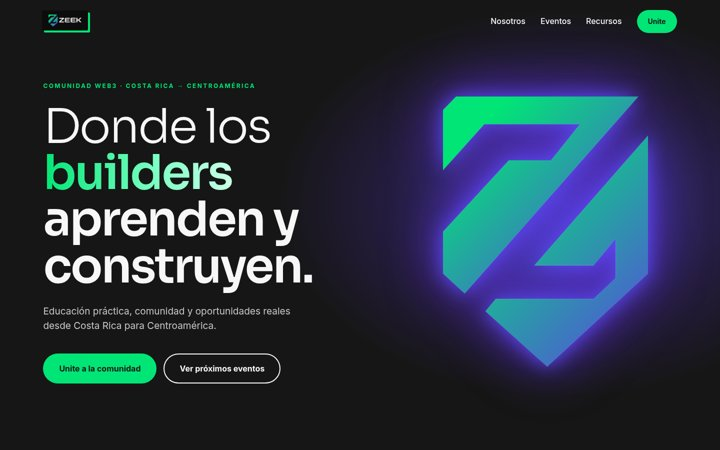
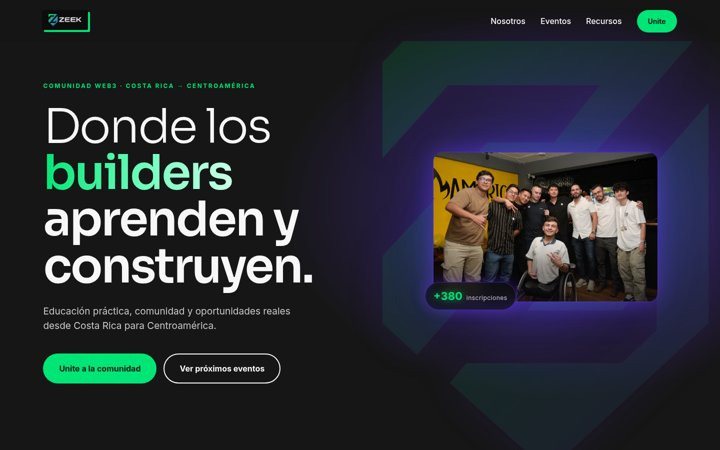
p9: hero K, stats C3, canales, marquee partners, equipo, contacto G, footer rico

Changed region(s): [[0.5194, 0.0933, 0.9167, 0.84], [0.0611, 0.0311, 0.1222, 0.0933], [0.8861, 0.0622, 0.9167, 0.0933]]

diff --git a/p9/index.html b/p9/index.html
@@ -80,6 +80,89 @@ section{padding:72px 6vw}.hero{grid-template-columns:1fr;min-height:auto;padding
 .car{height:600px}#pv{left:0}#nx{right:0}.slide.h{transform:scale(.6);opacity:0;z-index:0;pointer-events:none}.cal{display:inline-block;margin-top:12px;color:var(--g);font-weight:700}.slide.l{transform:translateX(-30%) scale(.8)}.slide.r{transform:translateX(30%) scale(.8)}
 .gal{grid-template-columns:1fr 1fr;grid-template-rows:160px 160px auto}.gal .wide{height:auto;aspect-ratio:2/1}.gal img:first-child{grid-column:span 2;grid-row:auto}footer{grid-template-columns:1fr}.soc span{margin-left:0}h2{font-size:clamp(26px,7.6vw,40px)}.cierre{padding:110px 6vw}}
 .pl{display:grid;grid-template-columns:repeat(3,1fr);gap:20px}.pl a{display:flex;flex-direction:column;align-items:center;justify-content:center;gap:14px;height:200px;border-radius:18px;background:var(--c);border:1px solid #2b2b31;transition:.3s}.pl img{height:110px;max-width:70%;object-fit:contain;border-radius:50%;filter:grayscale(1) brightness(1.5) contrast(1.15);opacity:.9;transition:.3s}.pl span{font-size:13px;opacity:.55}.pl a:hover{border-color:var(--g)}.pl a:hover img{filter:none;opacity:1}.wm{font-family:Sora;font-size:34px;font-weight:600;letter-spacing:.04em;opacity:.75;transition:.3s}.wm i{font-style:normal;font-weight:300}.pl a:hover .wm{opacity:1;color:var(--g)}.also{margin-top:28px;opacity:.65;text-align:center}.also b{font-weight:600;color:var(--w)}@media(max-width:860px){.pl{grid-template-columns:1fr}.pl a{height:150px}}.gal{display:grid;grid-template-columns:repeat(4,1fr);grid-auto-rows:220px;gap:14px}.gal figure{position:relative;overflow:hidden;border-radius:16px;margin:0}.gal figure img{width:100%;height:100%;object-fit:cover;transition:transform .6s ease}.gal figure:hover img{transform:scale(1.06)}.gal .big{grid-column:span 2;grid-row:span 2}.gal .wide{grid-column:span 2}.gal figcaption{position:absolute;left:0;right:0;bottom:0;padding:28px 16px 12px;font-size:13px;font-weight:600;background:linear-gradient(transparent,rgba(0,0,0,.75));opacity:.9;transition:opacity .3s}.gal figure:hover figcaption{opacity:1}@media(max-width:860px){.gal{grid-template-columns:1fr 1fr;grid-auto-rows:150px}.gal .wide{grid-row:span 1;height:auto}}html,body{forced-color-adjust:none;-webkit-forced-color-adjust:none}
+.iso.hp{display:block;width:100%}
+.hp-frame{position:relative;border-radius:18px;overflow:hidden;border:1px solid rgba(99,53,237,.55);box-shadow:0 0 0 1px rgba(91,75,242,.15),0 0 40px rgba(99,53,237,.45),0 0 90px rgba(79,91,255,.2)}
+.hp-frame::after{content:"";position:absolute;inset:0;background:linear-gradient(180deg,transparent 55%,rgba(10,10,14,.55))}
+.iso.hp .hp-frame img{width:100%;aspect-ratio:4/3;object-fit:cover;display:block;filter:none;animation:none}
+.hp-badge{position:absolute;left:-22px;bottom:-22px;display:flex;align-items:baseline;gap:10px;padding:14px 22px;border-radius:999px;background:rgba(14,14,20,.62);backdrop-filter:blur(14px);-webkit-backdrop-filter:blur(14px);border:1px solid rgba(99,53,237,.5);box-shadow:0 0 28px rgba(99,53,237,.45)}
+.hp-badge b{font-size:30px;font-weight:600;color:#01E576;text-shadow:0 0 14px rgba(1,229,118,.7)}
+.hp-badge span{font-size:13px;color:#cfcfd8;letter-spacing:.04em}
+@media(max-width:800px){.iso.hp{max-width:none;margin:30px 6px 30px}.hp-badge{left:-6px;bottom:-18px;padding:10px 16px}.hp-badge b{font-size:24px}}
+.iso.hp{max-width:540px;justify-self:center;position:relative}
+.iso.hp .hp-frame{z-index:1}.hp-badge{z-index:2}
+.iso.hp .hp-frame img{aspect-ratio:3/2}
+.iso.hp img.bigz{position:absolute;left:50%;top:50%;height:820px;width:auto;transform:translate(-50%,-50%);opacity:.08!important;filter:drop-shadow(0 0 40px rgba(99,53,237,.9));animation:none;z-index:0;pointer-events:none}
+.hero{overflow:hidden}
+@media(max-width:800px){.iso.hp{max-width:none}.iso.hp img.bigz{height:408px;width:auto;max-width:none;opacity:.08!important;transform:translate(-50%,-50%)}.iso.hp{margin:56px 6px 40px}}
+.hero{align-items:center}.iso.hp{align-self:center;margin-bottom:22px}
+@media(min-width:801px){.iso.hp{max-width:400px;width:400px}.iso.hp img.bigz{height:672px;width:auto;max-width:none;opacity:.115!important}
+.hp-badge{left:-16px;bottom:-16px;padding:10px 16px;gap:8px}.hp-badge b{font-size:22px}.hp-badge span{font-size:12px}}
+.iso.hp .hp-frame img{aspect-ratio:auto;object-fit:contain;height:auto}
+@media(min-width:801px){.iso.hp{max-width:450px;width:450px}.iso.hp img.bigz{height:860px!important;width:auto;max-width:none;opacity:.12!important}}
+@media(max-width:800px){.iso.hp img.bigz{height:500px!important;width:auto;max-width:none;opacity:.09!important}.iso.hp{margin:150px 10px 140px}}
+@media(min-width:801px){.iso.hp img.bigz{transform:translate(-50%,calc(-50% + 58px))}}
+@media(max-width:800px){.iso.hp img.bigz{transform:translate(-50%,calc(-50% + 34px))}}
+
+/* ---- stats C3 ---- */
+@font-face{font-family:SoraM;src:url(assets/sora600-digits.woff2) format("woff2");font-weight:600}
+.stats .st{background:#0f0f12;border:1px solid #26262e;border-radius:16px;padding:30px 26px;transition:border-color 1s,box-shadow 1s}
+.stats .st b{position:relative;font-family:SoraM,Sora,sans-serif;width:max-content}
+.stats .st b .o{color:transparent;-webkit-text-stroke:1.2px var(--w)}.stats .st b .o sup{color:transparent}
+.stats .st b .fi{position:absolute;left:0;top:0;color:var(--w);clip-path:inset(100% 0 0 0);transition:clip-path 1s cubic-bezier(.5,0,.3,1)}
+.stats .st.on b .fi{clip-path:inset(0 0 0 0)}
+.stats .st.lit b .fi{clip-path:none;text-shadow:0 0 10px rgba(1,229,118,.55),0 0 28px rgba(1,229,118,.3),0 0 54px rgba(99,53,237,.6);animation:zpl 2.6s ease-in-out infinite}
+@keyframes zpl{50%{text-shadow:0 0 4px rgba(1,229,118,.3),0 0 16px rgba(1,229,118,.2),0 0 30px rgba(99,53,237,.35)}}
+.stats .st.lit{border-color:#3b3550;box-shadow:0 0 30px rgba(99,53,237,.18)}
+.stats .bar{display:block;height:4px;background:#24242c;border-radius:4px;margin-top:20px;overflow:hidden}.stats .bar i{display:block;height:100%;width:0;background:linear-gradient(90deg,var(--v),var(--g));box-shadow:0 0 12px var(--g);transition:width 1.6s cubic-bezier(.3,.8,.3,1)}
+/* ---- team ---- */
+.team{display:grid;grid-template-columns:repeat(4,1fr);gap:22px}.fl3{perspective:1000px;height:300px}.fi3{position:relative;height:100%;transition:transform .7s;transform-style:preserve-3d}.fl3:hover .fi3{transform:rotateY(180deg)}
+.fa3,.fb3{position:absolute;inset:0;border-radius:20px;backface-visibility:hidden;-webkit-backface-visibility:hidden;padding:26px;display:flex;flex-direction:column;align-items:center;justify-content:center;text-align:center;background:#0f0f12;border:1px solid #2b2b31}
+.av3{width:120px;height:120px;border-radius:50%;border:2px solid var(--g);box-shadow:0 0 22px rgba(1,229,118,.45),inset 0 0 22px rgba(99,53,237,.5);display:grid;place-items:center;margin-bottom:18px;background:repeating-linear-gradient(45deg,#1a1a20 0 8px,#202028 8px 16px);font-size:11px;color:#777}
+.fa3 h4{font-weight:600;font-size:18px}.fa3 p{color:var(--g);font-size:12px;letter-spacing:.12em;margin-top:4px}.ph3{font-size:10px;color:#ff8f8f;margin-top:10px;letter-spacing:.1em}
+.fb3{transform:rotateY(180deg);background:linear-gradient(160deg,rgba(99,53,237,.35),rgba(1,229,118,.12)),#0f0f12;border-color:var(--v)}.fb3 p{font-size:13px;opacity:.85;line-height:1.6}
+/* ---- partners marquee ---- */
+.mq{overflow:hidden;-webkit-mask-image:linear-gradient(90deg,transparent,#000 12%,#000 88%,transparent);mask-image:linear-gradient(90deg,transparent,#000 12%,#000 88%,transparent);margin-bottom:16px}
+.mq .tr{display:flex;gap:16px;width:max-content;animation:zmv 30s linear infinite}.mq.rev .tr{animation-direction:reverse}.mq:hover .tr{animation-play-state:paused}@keyframes zmv{to{transform:translateX(-50%)}}
+.pt{height:84px;min-width:220px;padding:0 26px;border-radius:16px;background:#0f0f12;border:1px solid #2a2a32;display:flex;align-items:center;gap:12px;font-weight:600;font-size:18px;color:#8d8d98;filter:grayscale(1);transition:.3s;text-decoration:none}
+.pt img{height:44px;border-radius:8px}.pt:hover{filter:none;color:var(--w);border-color:var(--v);box-shadow:0 0 26px rgba(99,53,237,.5)}.pt small{font-weight:300;font-size:11px;color:var(--g);letter-spacing:.12em;display:block}
+.pt .wm2{font-weight:600;letter-spacing:.02em;color:#ddd}.pt .wm2 i{font-style:normal;color:var(--g)}
+/* ---- canales bento ---- */
+.bento{display:grid;grid-template-columns:2fr 1fr 1fr;grid-template-rows:180px 180px;gap:16px}
+.bx{border-radius:18px;background:#0f0f12;border:1px solid #2a2a32;padding:24px;display:flex;flex-direction:column;justify-content:space-between;transition:.3s;text-decoration:none;color:inherit}
+.bx:hover{border-color:var(--g);box-shadow:0 0 30px rgba(1,229,118,.18)}
+.bx.big{grid-row:span 2;background:radial-gradient(circle at 80% 20%,rgba(1,229,118,.22),transparent 55%),#0f0f12}
+.bx h3{font-weight:600;font-size:22px}.bx p{opacity:.7;font-size:13px}.bx .h{font-family:ui-monospace,monospace;font-size:12px;opacity:.6}
+.live{display:inline-flex;align-items:center;gap:8px;font-size:12px;color:var(--g)}.live::before{content:"";width:8px;height:8px;border-radius:50%;background:var(--g);box-shadow:0 0 10px var(--g);animation:zbl 1.6s infinite}@keyframes zbl{50%{opacity:.25}}
+.term{font-family:ui-monospace,monospace;font-size:13px;line-height:1.9;color:#cfd}.term b{color:var(--g);font-weight:500}.go{font-weight:600;font-size:13px;color:var(--g)}
+.bx.v{background:radial-gradient(circle at 20% 100%,rgba(99,53,237,.4),transparent 60%),#0f0f12}
+/* ---- contacto G ---- */
+#contacto .sp{display:grid;grid-template-columns:1fr 1.1fr;gap:70px;align-items:center}
+.zl img{height:40px;margin-bottom:22px;display:block}.zl p{opacity:.7;max-width:340px;margin-bottom:34px}
+.eb3{font-weight:600;font-size:12px;letter-spacing:.2em;color:var(--g);margin-bottom:12px}
+.stmt{font-weight:600;font-size:clamp(40px,4.6vw,68px);line-height:1;letter-spacing:-.035em}.stmt .gr{color:var(--g)}
+.sub3{opacity:.7;font-size:15px;margin-top:24px;max-width:460px;line-height:1.6}
+.lk{display:flex;flex-direction:column;gap:10px;margin-top:22px}.lk a{color:#cfcfd8;font-size:14px;text-decoration:none;width:max-content;border-bottom:1px solid transparent}.lk a:hover{color:var(--g);border-color:var(--g)}.lk small{opacity:.5;font-size:11px;letter-spacing:.15em}
+.ge{position:relative}.ge::before{content:"";position:absolute;inset:-30px;background:linear-gradient(130deg,rgba(1,229,118,.45),rgba(99,53,237,.6));filter:blur(60px);opacity:.55;border-radius:40px;z-index:0;pointer-events:none}
+.ge form{position:relative;z-index:1;border-radius:20px;padding:32px;display:grid;gap:14px;background:rgba(18,18,24,.55);backdrop-filter:blur(18px);-webkit-backdrop-filter:blur(18px);border:1px solid rgba(255,255,255,.1)}
+.ge h3{font-weight:600;font-size:20px;margin-bottom:4px}
+.ge input,.ge textarea{width:100%;background:rgba(8,9,9,.6);border:1px solid rgba(1,229,118,.45);border-radius:14px;padding:24px 18px 10px;color:var(--w);font:300 15px Sora,sans-serif;outline:none;transition:.25s;resize:vertical}
+.ge input:focus,.ge textarea:focus{border-color:var(--g);box-shadow:0 0 0 3px rgba(1,229,118,.12)}
+.flb{position:relative}.flb label{position:absolute;left:18px;top:17px;color:rgba(1,229,118,.65);font-size:15px;transition:.2s;pointer-events:none}
+.flb input:focus+label,.flb input:not(:placeholder-shown)+label,.flb textarea:focus+label,.flb textarea:not(:placeholder-shown)+label{top:7px;font-size:11px;letter-spacing:.08em;color:var(--g)}
+.ge .send2{justify-self:start;background:none;border:1px solid var(--g);color:var(--g);border-radius:14px;padding:14px 28px;font:600 14px Sora,sans-serif;cursor:pointer;transition:.25s}.ge .send2:hover{background:rgba(1,229,118,.1);box-shadow:0 0 22px rgba(1,229,118,.25)}
+/* ---- footer rico ---- */
+footer.fr{background:#0c0c0e;padding:80px 6vw 30px;position:relative;overflow:hidden;display:block}
+footer.fr .wmz{position:absolute;right:-60px;bottom:-120px;height:460px;opacity:.05;pointer-events:none}
+.fg{display:grid;grid-template-columns:1.4fr 1fr 1fr 1fr;gap:40px;position:relative}.fg h5{font-weight:600;font-size:13px;letter-spacing:.15em;color:var(--g);margin-bottom:16px}.fg ul{list-style:none;padding:0;margin:0}.fg li{opacity:.75;font-size:14px;margin-bottom:10px}.fg li a{color:inherit;text-decoration:none}.fg li a:hover{color:var(--g)}
+.fg .br img{height:32px;margin-bottom:16px}.fg .br p{opacity:.6;font-size:13px;line-height:1.6;max-width:280px}
+.chipz{display:inline-flex;gap:8px;align-items:center;margin-top:18px;font-family:ui-monospace,monospace;font-size:12px;color:var(--g);border:1px solid #1d3a2b;border-radius:8px;padding:8px 12px;text-decoration:none}
+.bigz2{font-weight:600;font-size:15vw;letter-spacing:-.04em;line-height:.8;margin-top:40px;background:linear-gradient(180deg,rgba(247,247,247,.08),transparent);-webkit-background-clip:text;background-clip:text;color:transparent;text-align:center;position:relative}
+.fbt{display:flex;justify-content:space-between;gap:20px;margin-top:30px;padding-top:20px;border-top:1px solid #222;opacity:.6;font-size:12px;position:relative}
+@media(max-width:800px){.team{grid-template-columns:1fr 1fr;gap:14px}.fl3{height:260px}.av3{width:90px;height:90px}
+.bento{grid-template-columns:1fr 1fr;grid-template-rows:auto}.bx.big{grid-column:1/-1;grid-row:auto;min-height:260px}.bx{min-height:150px}
+#contacto .sp{grid-template-columns:1fr;gap:50px}.fg{grid-template-columns:1fr 1fr}.fg .br{grid-column:1/-1}.fbt{flex-direction:column}.pt{min-width:180px;height:72px;font-size:16px}}
+html,body{overflow-x:clip}
+.stats .st b span{display:inline-block;font-size:inherit;margin:0;opacity:1;max-width:none;white-space:nowrap}.stats .st b .fi{position:absolute}footer.fr .wmz{opacity:.05!important;transform:none!important}
 </style></head><body>
 <header class="nav" id="nav"><a class="logo" href="#top"><span><img src="assets/zeek-logo.png" alt="ZEEK"></span></a>
 <input type="checkbox" id="m"><label for="m" class="burger">☰</label>
@@ -89,9 +172,9 @@ section{padding:72px 6vw}.hero{grid-template-columns:1fr;min-height:auto;padding
 <h1><span class="thin">Donde los</span> <span class="heavy grad">builders</span> <span class="heavy">aprenden y construyen.</span></h1>
 <p class="lead">Educación práctica, comunidad y oportunidades reales desde Costa Rica para Centroamérica.</p>
 <div class="ctas"><a class="btn pri" href="https://chat.whatsapp.com/IwohPWSez627OG74k8jRvA">Unite a la comunidad</a><a class="btn sec" href="#eventos">Ver próximos eventos</a></div></div>
-<div class="iso"><img src="assets/zeek-iso.png" alt="Isotipo ZEEK"></div></section>
+<div class="iso hp"><img class="bigz" src="assets/zeek-iso.png" alt=""><div class="hp-frame"><img src="assets/hero-group.jpg" alt="Comunidad ZEEK en un meetup"></div><div class="hp-badge"><b>+380</b><span>inscripciones</span></div></div></section>
 <section class="mani"><p class="d"><span class="thin">Aprender solo</span><br><span class="heavy">te mueve.</span><br><span class="thin">Construir juntos</span><br><span class="heavy grad">te transforma.</span></p><small>Somos la comunidad donde las ideas Web3 pasan de la teoría a proyectos reales.</small></section>
-<section class="stats"><div><b>14</b><span>eventos realizados</span></div><div><b>380<sup>+</sup></b><span>inscripciones a eventos</span></div><div><b>3</b><span>países: Costa Rica, Colombia y Portugal</span></div><div><b>3</b><span>partners del ecosistema</span></div></section>
+<section class="stats"><div class="st"><b><span class="o">14</span><span class="fi">14</span></b><span>eventos realizados</span><i class="bar"><i data-p="70"></i></i></div><div class="st"><b><span class="o">380<sup>+</sup></span><span class="fi">380<sup>+</sup></span></b><span>inscripciones a eventos</span><i class="bar"><i data-p="95"></i></i></div><div class="st"><b><span class="o">3</span><span class="fi">3</span></b><span>países: Costa Rica, Colombia y Portugal</span><i class="bar"><i data-p="50"></i></i></div><div class="st"><b><span class="o">3</span><span class="fi">3</span></b><span>partners del ecosistema</span><i class="bar"><i data-p="50"></i></i></div></section>
 <section id="nosotros"><div class="hd"><h2><span class="thin">Creciendo en</span><br><span class="heavy">comunidad</span></h2><p>ZEEK es un espacio donde aprender, construir y conectar sucede en conjunto, desde el primer día.</p></div>
 <div class="cards"><article class="card"><i>01</i><h3>Aprendé</h3><p>Talleres, charlas y recursos para entender Web3 desde la práctica.</p><a href="#recursos">Ir a Recursos →</a></article>
 <article class="card"><i>02</i><h3>Construí</h3><p>Espacios para crear proyectos, experimentar y colaborar con otros builders.</p><a href="#eventos">Ir a Eventos →</a></article>
@@ -103,13 +186,23 @@ section{padding:72px 6vw}.hero{grid-template-columns:1fr;min-height:auto;padding
 <div class="rec"><article><b>01</b><h3>Talleres prácticos</h3><p>Sesiones para aprender haciendo, desde lo básico hasta lo aplicado.</p></article><article><b>02</b><h3>Material educativo</h3><p>Guías, recursos y contenido curado para explorar Web3 a tu ritmo.</p></article><article><b>03</b><h3>Networking y comunidad</h3><p>Espacios para conectar con personas, ideas y proyectos.</p></article><article><b>04</b><h3>Oportunidades</h3><p>Difusión de programas, convocatorias y espacios para participar.</p></article></div></section>
 <section><div class="hd"><h2><span class="thin">Así se vive</span><br><span class="heavy">ZEEK</span></h2></div><div class="gal"><figure class="big"><img src="assets/g-aleph-grupo.jpg" alt="Aleph Hackathon II" loading="lazy"><figcaption>Aleph Hackathon II</figcaption></figure><figure class=""><img src="assets/g-dev3pack.jpg" alt="Dev3Pack x Solana" loading="lazy"><figcaption>Dev3Pack x Solana</figcaption></figure><figure class=""><img src="assets/g-aleph-build.jpg" alt="Aleph Hackathon" loading="lazy"><figcaption>Aleph Hackathon</figcaption></figure><figure class=""><img src="assets/g-cursor.jpg" alt="Cursor Meetup San José" loading="lazy"><figcaption>Cursor Meetup San José</figcaption></figure><figure class=""><img src="assets/g-tico.jpg" alt="TicoBlockchain" loading="lazy"><figcaption>TicoBlockchain</figcaption></figure><figure class="wide"><img src="assets/gal-una-wide.jpg" alt="Meet Up UNA · 9 de mayo" loading="lazy"></figure><figure class=""><img src="assets/g-sesiones.jpg" alt="Encuentros ZEEK" loading="lazy"><figcaption>Encuentros ZEEK</figcaption></figure><figure class=""><img src="assets/g-meetup.jpg" alt="Meetup ZEEK" loading="lazy"><figcaption>Meetup ZEEK</figcaption></figure></div></section>
 <section><div class="hd"><h2><span class="thin">Lo que dice la</span><br><span class="heavy">comunidad</span></h2></div><div class="tq"><blockquote>“[Testimonio real de un builder]”<cite>[Nombre] · [rol]</cite></blockquote><blockquote>“[Testimonio real de un builder]”<cite>[Nombre] · [rol]</cite></blockquote><blockquote>“[Testimonio real de un aliado]”<cite>[Nombre] · [organización]</cite></blockquote></div></section>
+<section id="equipo"><div class="hd"><h2><span class="thin">Las personas</span><br><span class="heavy">detrás de ZEEK</span></h2><p>Pasá el mouse sobre cada tarjeta. <b style="color:#ff8f8f">Nombres y fotos son placeholders.</b></p></div><div class="team"><div class="fl3"><div class="fi3"><div class="fa3"><div class="av3">FOTO</div><h4>Nombre 1</h4><p>ROL</p><div class="ph3">PLACEHOLDER</div></div><div class="fb3"><p>Bio corta: qué hace en ZEEK y en qué construye. (placeholder)</p></div></div></div><div class="fl3"><div class="fi3"><div class="fa3"><div class="av3">FOTO</div><h4>Nombre 2</h4><p>ROL</p><div class="ph3">PLACEHOLDER</div></div><div class="fb3"><p>Bio corta: qué hace en ZEEK y en qué construye. (placeholder)</p></div></div></div><div class="fl3"><div class="fi3"><div class="fa3"><div class="av3">FOTO</div><h4>Nombre 3</h4><p>ROL</p><div class="ph3">PLACEHOLDER</div></div><div class="fb3"><p>Bio corta: qué hace en ZEEK y en qué construye. (placeholder)</p></div></div></div><div class="fl3"><div class="fi3"><div class="fa3"><div class="av3">FOTO</div><h4>Nombre 4</h4><p>ROL</p><div class="ph3">PLACEHOLDER</div></div><div class="fb3"><p>Bio corta: qué hace en ZEEK y en qué construye. (placeholder)</p></div></div></div></div></section>
 <section class="partners"><div class="hd"><h2><span class="thin">Nuestros</span><br><span class="heavy">partners</span></h2><p>Organizaciones que construyen con nosotros.</p></div>
-<div class="pl"><a href="https://linktr.ee/StellarLATAM" target="_blank" rel="noopener"><img src="assets/p-stellar.jpg" alt="Starmaker – Stellar"><span>Starmaker · Stellar</span></a><a href="https://www.techrebel.world" target="_blank" rel="noopener"><b class="wm">TECH<i>REBEL</i></b><span>Tech Rebel</span></a><a href="https://x.com/crecimientoar" target="_blank" rel="noopener"><img src="assets/p-crecimiento.jpg" alt="Crecimiento"><span>Crecimiento</span></a></div>
-<p class="also">Junto a <b>Morpho</b> · <b>Ticoblockchain</b> · <b>Aleph</b> · <b>TEC</b> · <b>Fidélitas</b></p></section>
+<div class="mq"><div class="tr"><a class="pt" href="https://linktr.ee/StellarLATAM" target="_blank" rel="noopener"><img src="assets/p-stellar.jpg" alt="Starmaker – Stellar"><div>Starmaker · Stellar<small>PARTNER</small></div></a><a class="pt" href="https://www.techrebel.world" target="_blank" rel="noopener"><span class="wm2">TECH<i>REBEL</i></span><div><small>PARTNER</small></div></a><a class="pt" href="https://x.com/crecimientoar" target="_blank" rel="noopener"><img src="assets/p-crecimiento.jpg" alt="Crecimiento"><div>Crecimiento<small>PARTNER</small></div></a><a class="pt" href="https://linktr.ee/StellarLATAM" target="_blank" rel="noopener"><img src="assets/p-stellar.jpg" alt="Starmaker – Stellar"><div>Starmaker · Stellar<small>PARTNER</small></div></a><a class="pt" href="https://www.techrebel.world" target="_blank" rel="noopener"><span class="wm2">TECH<i>REBEL</i></span><div><small>PARTNER</small></div></a><a class="pt" href="https://x.com/crecimientoar" target="_blank" rel="noopener"><img src="assets/p-crecimiento.jpg" alt="Crecimiento"><div>Crecimiento<small>PARTNER</small></div></a><a class="pt" href="https://linktr.ee/StellarLATAM" target="_blank" rel="noopener"><img src="assets/p-stellar.jpg" alt="Starmaker – Stellar"><div>Starmaker · Stellar<small>PARTNER</small></div></a><a class="pt" href="https://www.techrebel.world" target="_blank" rel="noopener"><span class="wm2">TECH<i>REBEL</i></span><div><small>PARTNER</small></div></a><a class="pt" href="https://x.com/crecimientoar" target="_blank" rel="noopener"><img src="assets/p-crecimiento.jpg" alt="Crecimiento"><div>Crecimiento<small>PARTNER</small></div></a><a class="pt" href="https://linktr.ee/StellarLATAM" target="_blank" rel="noopener"><img src="assets/p-stellar.jpg" alt="Starmaker – Stellar"><div>Starmaker · Stellar<small>PARTNER</small></div></a><a class="pt" href="https://www.techrebel.world" target="_blank" rel="noopener"><span class="wm2">TECH<i>REBEL</i></span><div><small>PARTNER</small></div></a><a class="pt" href="https://x.com/crecimientoar" target="_blank" rel="noopener"><img src="assets/p-crecimiento.jpg" alt="Crecimiento"><div>Crecimiento<small>PARTNER</small></div></a></div></div><div class="mq rev"><div class="tr"><div class="pt">Morpho<small style="margin-left:6px">ALIADO</small></div><div class="pt">Ticoblockchain<small style="margin-left:6px">ALIADO</small></div><div class="pt">Aleph<small style="margin-left:6px">ALIADO</small></div><div class="pt">TEC<small style="margin-left:6px">ALIADO</small></div><div class="pt">Fidélitas<small style="margin-left:6px">ALIADO</small></div><div class="pt">Morpho<small style="margin-left:6px">ALIADO</small></div><div class="pt">Ticoblockchain<small style="margin-left:6px">ALIADO</small></div><div class="pt">Aleph<small style="margin-left:6px">ALIADO</small></div><div class="pt">TEC<small style="margin-left:6px">ALIADO</small></div><div class="pt">Fidélitas<small style="margin-left:6px">ALIADO</small></div><div class="pt">Morpho<small style="margin-left:6px">ALIADO</small></div><div class="pt">Ticoblockchain<small style="margin-left:6px">ALIADO</small></div><div class="pt">Aleph<small style="margin-left:6px">ALIADO</small></div><div class="pt">TEC<small style="margin-left:6px">ALIADO</small></div><div class="pt">Fidélitas<small style="margin-left:6px">ALIADO</small></div></div></div></section>
+<section id="comunidad"><div class="hd"><h2><span class="thin">Un mapa de</span><br><span class="heavy">nuestros canales</span></h2></div><div class="bento">
+<a class="bx big" href="https://chat.whatsapp.com/IwohPWSez627OG74k8jRvA" target="_blank" rel="noopener"><div><span class="live">activo ahora</span><h3 style="font-size:34px;margin-top:16px">WhatsApp</h3><p style="font-size:15px;margin-top:8px;max-width:380px">El canal principal: avisos de eventos, dudas técnicas y oportunidades.</p></div><div class="term"><b>$</b> zeek join --canal whatsapp<br><b>✓</b> comunidad CR + CA</div><span class="go">Entrar al grupo →</span></a>
+<a class="bx v" href="https://luma.com/ZEEK-" target="_blank" rel="noopener"><div><p class="h">luma.com/ZEEK-</p><h3>Calendario</h3></div><p>Todos los eventos e inscripciones</p></a>
+<a class="bx" href="https://www.instagram.com/zeek_cr/" target="_blank" rel="noopener"><div><p class="h">@zeek_cr</p><h3>Instagram</h3></div><p>Fotos, recaps y anuncios</p></a>
+<a class="bx" href="https://x.com/ZEEK_CR" target="_blank" rel="noopener"><div><p class="h">@ZEEK_CR</p><h3>X</h3></div><p>Noticias y anuncios</p></a>
+<a class="bx" href="https://linktr.ee/zeek.info" target="_blank" rel="noopener"><div><p class="h">linktr.ee/zeek.info</p><h3>Todos los links</h3></div><p>Recursos, formularios y más</p></a></div></section>
 <section class="cierre"><h2><span class="thin">¿Listo para construir</span> <span class="heavy">con nosotros?</span></h2><p>Sumate al grupo de WhatsApp y enterate primero de eventos, talleres y oportunidades.</p><a class="btn pri" href="https://chat.whatsapp.com/IwohPWSez627OG74k8jRvA">Unite a la comunidad</a></section>
-<footer id="contacto"><div class="fc"><img src="assets/zeek-logo.png" alt="ZEEK"><p>Comunidad Web3 enfocada en aprender haciendo y construir en conjunto.</p></div>
-<form onsubmit="return false"><h3>Contactanos</h3><p>Para colaboraciones, talleres, alianzas o patrocinio.</p><input placeholder="Nombre"><input type="email" placeholder="Email"><textarea placeholder="..."></textarea><button class="send">Enviar</button></form>
-<div class="soc"><a href="https://www.instagram.com/zeek_cr/">Instagram</a><a href="https://x.com/ZEEK_CR">X</a><a href="https://chat.whatsapp.com/IwohPWSez627OG74k8jRvA" target="_blank" rel="noopener">WhatsApp</a><span>© 2026 ZEEK — Built in Costa Rica</span></div></footer>
+<section id="contacto"><div class="sp"><div><div class="zl"><img src="assets/zeek-logo.png" alt="ZEEK"><p>Comunidad Web3 enfocada en aprender haciendo y construir en conjunto.</p></div><div class="eb3">CONTACTO</div><div class="stmt">¿Tenés una idea?<br><span class="gr">Contáctanos.</span></div><p class="sub3">Si querés colaborar con ZEEK, dar una charla o sumar a tu organización, dejanos un mensaje.</p><div class="lk"><small>TAMBIÉN EN</small><a href="https://chat.whatsapp.com/IwohPWSez627OG74k8jRvA" target="_blank" rel="noopener">WhatsApp de la comunidad</a><a href="https://luma.com/ZEEK-" target="_blank" rel="noopener">Calendario en Luma</a><a href="https://linktr.ee/zeek.info" target="_blank" rel="noopener">Todos nuestros links</a></div></div>
+<div class="ge"><form onsubmit="return false"><h3>Escribinos</h3><div class="flb"><input type="text" placeholder=" " id="cNombre"><label for="cNombre">Nombre</label></div><div class="flb"><input type="email" placeholder=" " id="cEmail"><label for="cEmail">Email</label></div><div class="flb"><input type="text" placeholder=" " id="cOrganización (opcional)"><label for="cOrganización (opcional)">Organización (opcional)</label></div><div class="flb"><textarea rows="5" placeholder=" " id="cMensaje"></textarea><label for="cMensaje">Mensaje</label></div><button class="send2">Enviar</button></form></div></div></section>
+<footer class="fr"><img class="wmz" src="assets/zeek-iso.png" alt=""><div class="fg"><div class="br"><img src="assets/zeek-logo.png" alt="ZEEK"><p>Desde Costa Rica para Centroamérica.</p><a class="chipz" href="https://luma.com/ZEEK-" target="_blank" rel="noopener">● próximos eventos → luma.com/ZEEK-</a></div>
+<div><h5>COMUNIDAD</h5><ul><li><a href="https://chat.whatsapp.com/IwohPWSez627OG74k8jRvA" target="_blank" rel="noopener">WhatsApp</a></li><li><a href="https://www.instagram.com/zeek_cr/" target="_blank" rel="noopener">Instagram</a></li><li><a href="https://x.com/ZEEK_CR" target="_blank" rel="noopener">X</a></li><li><a href="https://linktr.ee/zeek.info" target="_blank" rel="noopener">Linktree</a></li></ul></div>
+<div><h5>RECURSOS</h5><ul><li><a href="https://luma.com/ZEEK-" target="_blank" rel="noopener">Calendario de eventos</a></li><li><a href="#recursos">Guías y talleres</a></li><li><a href="#">Media kit</a></li><li><a href="#contacto">Ser partner</a></li></ul></div>
+<div><h5>LEGAL</h5><ul><li><a href="#">Código de conducta</a></li><li><a href="#">Privacidad</a></li><li><a href="#contacto">Contacto</a></li></ul></div></div>
+<div class="bigz2">ZEEK</div><div class="fbt"><span>© 2026 ZEEK — Built in Costa Rica</span><span>hecho por builders, para builders</span></div></footer>
 <script>
 document.documentElement.classList.add('js');
 const nav=document.getElementById('nav');const sc=()=>nav.classList.toggle('sc',scrollY>30);addEventListener('scroll',sc);sc();
@@ -122,4 +215,6 @@ s.forEach((el,k)=>el.addEventListener('click',e=>{if(!el.classList.contains('c')
 document.getElementById('pv').onclick=()=>go(i-1);document.getElementById('nx').onclick=()=>go(i+1);
 let x0=null;const car=document.getElementById('car');car.addEventListener('touchstart',e=>x0=e.touches[0].clientX,{passive:true});car.addEventListener('touchend',e=>{if(x0==null)return;const dx=e.changedTouches[0].clientX-x0;if(Math.abs(dx)>40)go(i+(dx<0?1:-1));x0=null});
 go(0);
+
+(()=>{const sec=document.querySelector('.stats');if(!sec)return;new IntersectionObserver((e,ob)=>{if(e[0].isIntersecting){ob.disconnect();sec.querySelectorAll('.st').forEach((s,k)=>{setTimeout(()=>s.classList.add('on'),300+k*250);setTimeout(()=>{s.classList.add('lit');const b=s.querySelector('.bar i');b.style.width=b.dataset.p+'%'},1350+k*250)})}},{threshold:.4}).observe(sec)})();
 </script></body></html>
